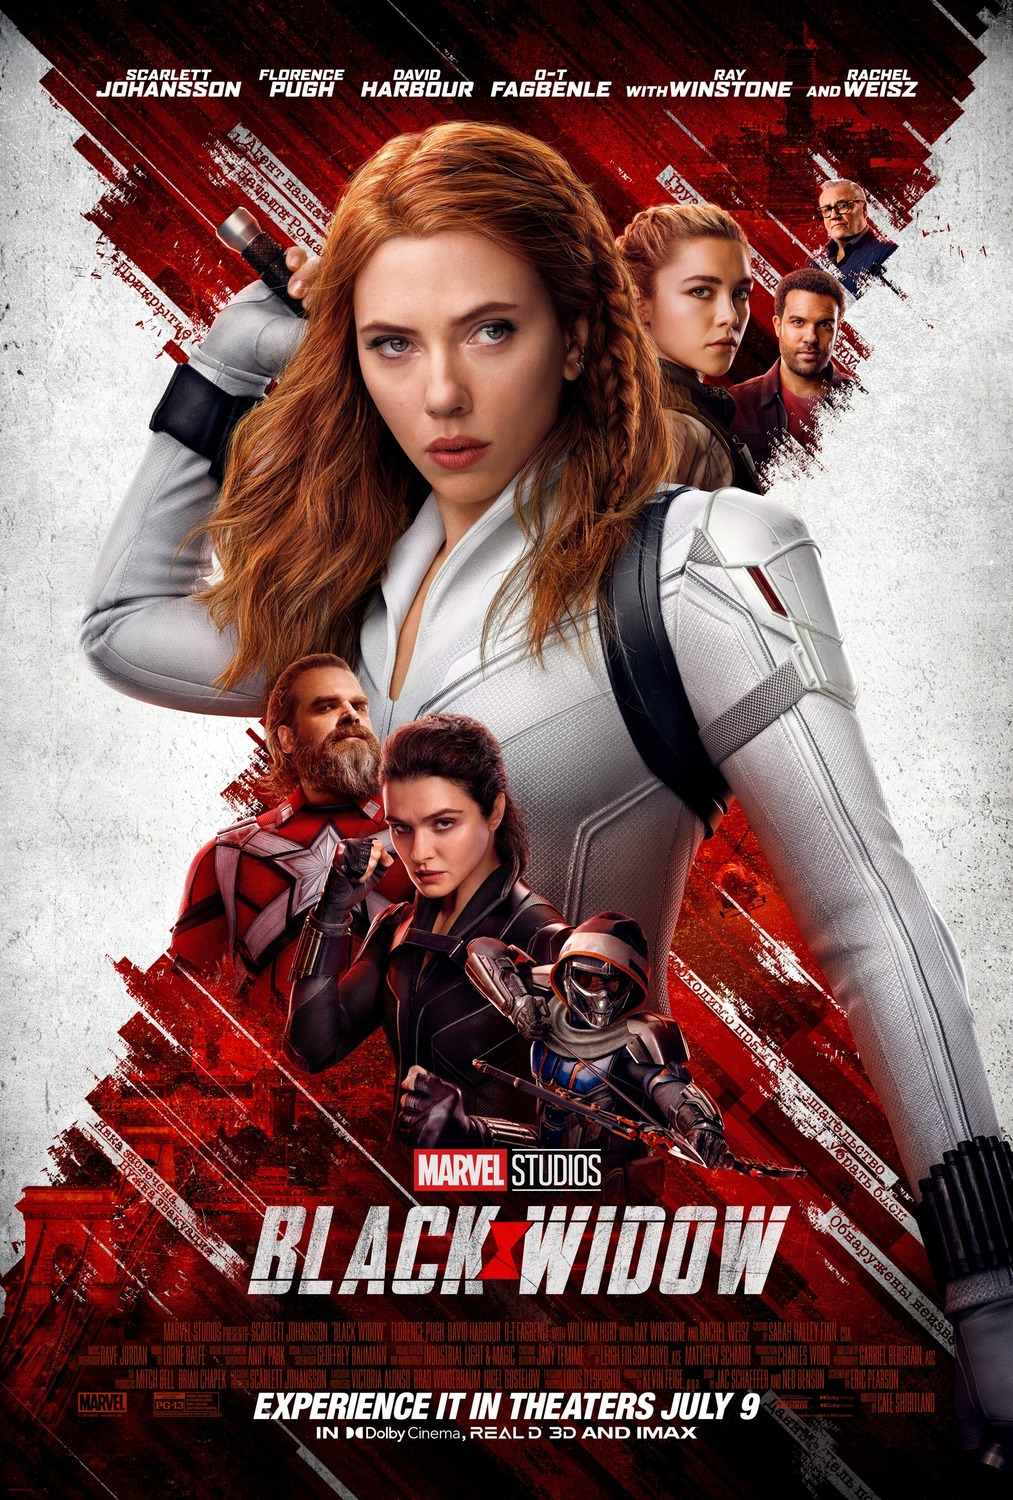
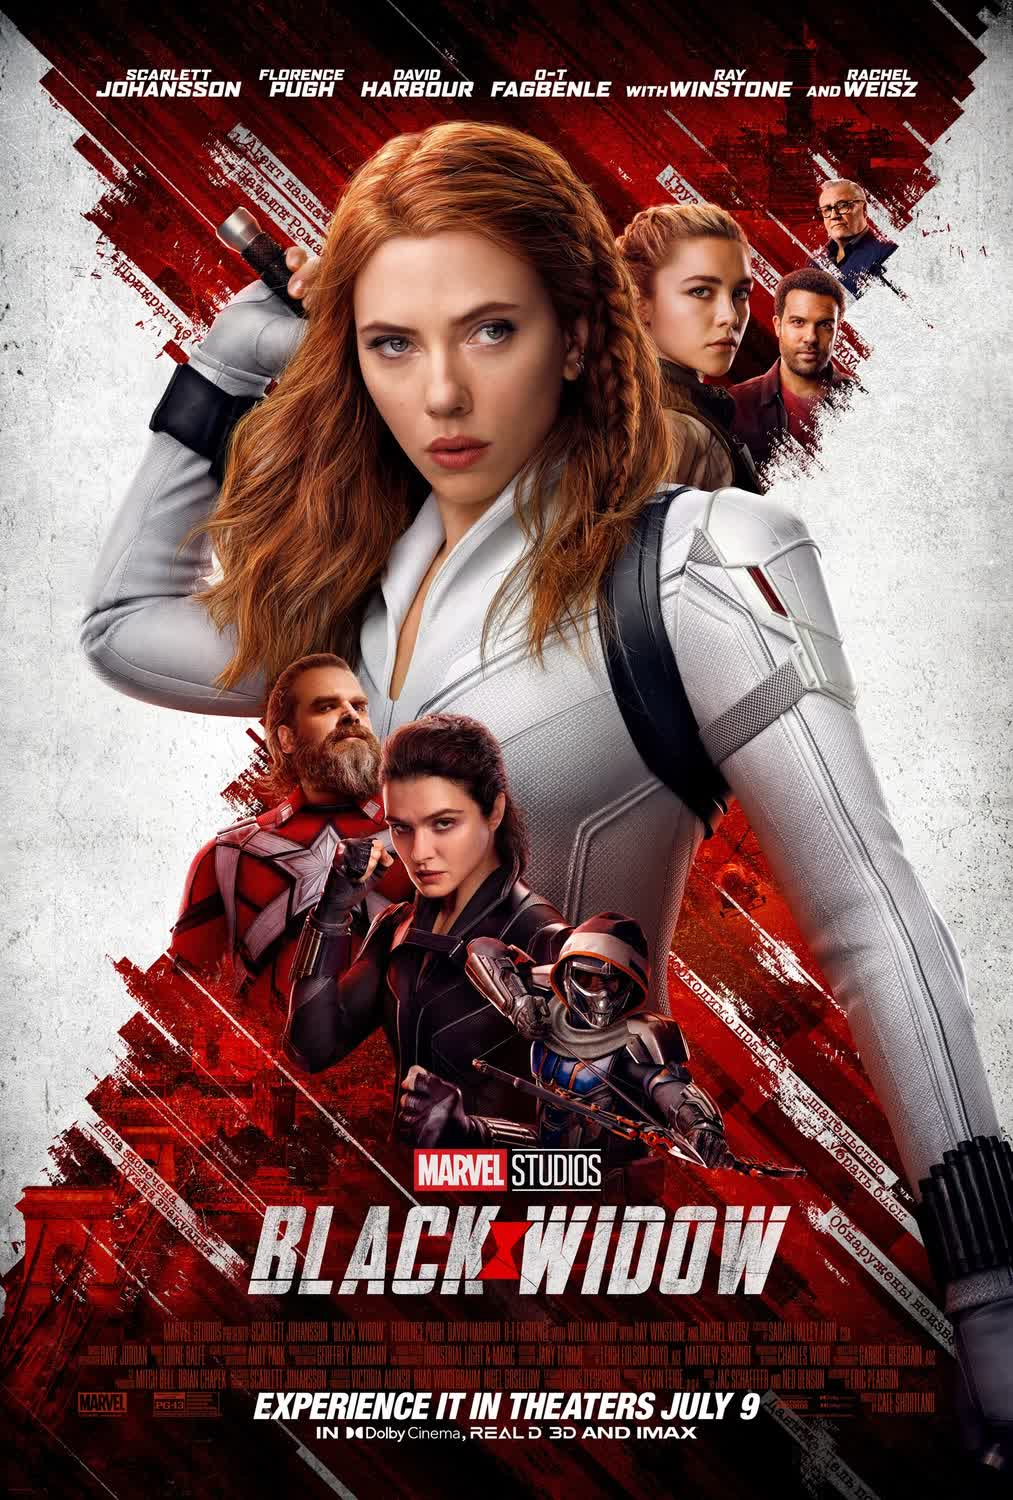
Compressed The Images And Added How To Download Guide

diff --git a/mainApp.js b/mainApp.js
@@ -68,7 +68,9 @@ function __search(){
     if(text==""){
         alert("Enter the name of your desired movie in the search field and try again.");
         return;
-    }else{
+    }/*else if(fuzzball.partial_ratio(String(text).toLowerCase().trim(),String("How To Download").toLowerCase())>=90){
+        HowTo();
+    }*/else{
         let results={};
         let highScore=0;
         for(const i in bulletdb){
@@ -132,6 +134,56 @@ function PlotResults(text,dictionary){
     })
 }
 
+document.getElementById("how-to").addEventListener("click",(ev)=>{
+    HowTo();
+})
+
+function HowTo(){
+    document.getElementById("result-plot").innerHTML=`\
+    <div class="result-wrapper">
+    <div class="status">
+    <button id="home-btn"><i class="fas fa-arrow-left fa-3x"></i></button>
+    <input type="text" value="HOW TO DOWNLOAD" id="search-query"  readonly/>
+    </div>
+    <h3>Step 1 - Search The Movie Name</h3>
+    <p>Type the name of the movie in the search field like this.</p>
+    <img src="./imgs/search.PNG" class="help-img">
+    <p>Then hit Enter or click on the search button.</p>
+    <h3>Step 2 - Select The Movie</h3>
+    <p>After completing step 1, you will get the results like this:</p>
+    <img src="./imgs/results.PNG" class="help-img">
+    <p>Click on the movie's name.</p>
+    <h3>Step 3 - Select The Quality And Provider</h3>
+    <p>Once you have clicked on the movie's name, you will be taken to a page like this:</p>
+    <img src="./imgs/inter.PNG" class="help-img">
+    <p>Now choose the quality that you want. After that you have to choose the provider too.</p>
+    <h4>Providers:</h4>
+    <ul>
+        <li>GDrive: <span class="pro-det"> If are using a stable internet connection, choose this provider as it is simple. But this download will be cancelled once you have lost your internet connection.</span></li>
+        <li>MEGA: <span class="pro-det"> If you are using data connection, this could be a better choice for you. If you were downloading a movie and lost internet connection while doing that, it will resume the download once you get internet connection again. It is reccomended to use MEGA app if you are using an android device.</span></li>
+        <li>GDS: <span class="pro-det"> This option will transfer the movie to your Google Drive. For this you have to click in the GDS option and then allow the service to access your Google Drive. Once it has been transferred, you can download the movie from your Google Drive.</span></li>
+    </ul>
+    <p>Thanks for being with us.</p>
+    </div>
+`;
+    document.getElementById("search-page").style.display="none";
+    document.getElementById("icon-wrapper").style.display="none";
+    // document.getElementById("background").style.display="none";
+    // document.getElementById("bgcover").style.display="none";
+    document.body.style.backgroundColor="#eee"; 
+    document.getElementById("background").style.display="none";
+    document.getElementById("bgcover").style.backgroundColor="#aaa";
+    inPlot=true
+    document.getElementById("home-btn").addEventListener("click",(ev)=>{
+        // location.reload();
+        document.getElementById("result-plot").innerHTML="";
+        document.getElementById("search-page").style.display="";
+        document.getElementById("icon-wrapper").style.display="";
+        document.getElementById("background").style.display="";
+        document.getElementById("bgcover").style.backgroundColor="#0008";
+        inPlot=false
+    })
+}
 
 getJSON("https://api.github.com/repos/NurTasin/links/git/refs/heads/main",(err,data)=>{
     if(err){

diff --git a/style.css b/style.css
@@ -220,3 +220,23 @@ a{
   }
 }
 
+#how-to{
+  background-color: #00B4CC;
+  color: #000;
+  border-radius: 0.5rem;
+  border-color: transparent;
+  font-size: medium;
+  font-weight: bold;
+  position: relative;
+  left: 50%;
+  transform: translateX(-50%);
+  cursor: pointer;
+}
+.help-img{
+  height: 50%;
+  width: 50%;
+  position: relative;
+  left: 50%;
+  transform: translateX(-50%);
+  object-fit: contain;
+}

diff --git a/index.html b/index.html
@@ -26,6 +26,7 @@
           </button>
         </div>
         <p id="update-details">Database Updated On : <code id="dbupdatedate"></code></p>
+        <button id="how-to">How To Download</button>
         <p id="latest">Latest And Famous Releases</p>
         <div id="unknown">
             <img src="./ads/venom2.jpg" alt="Advertise With Us." id="unknown-img5">
